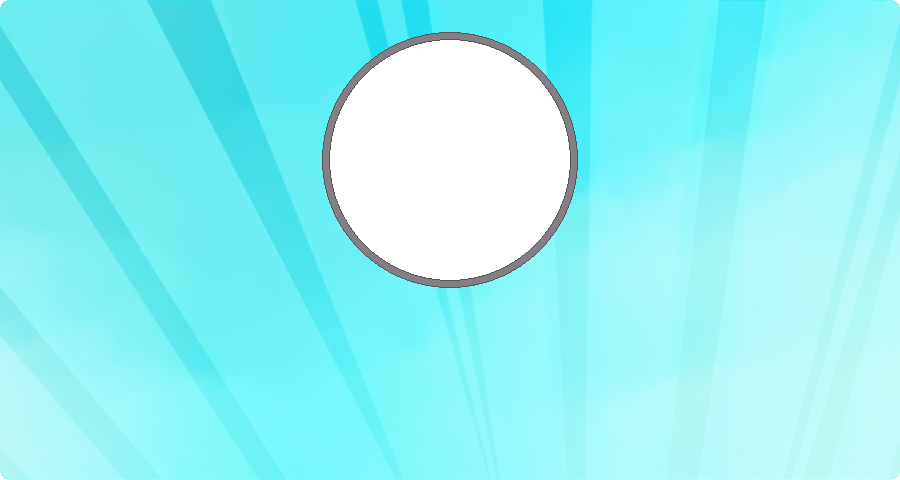
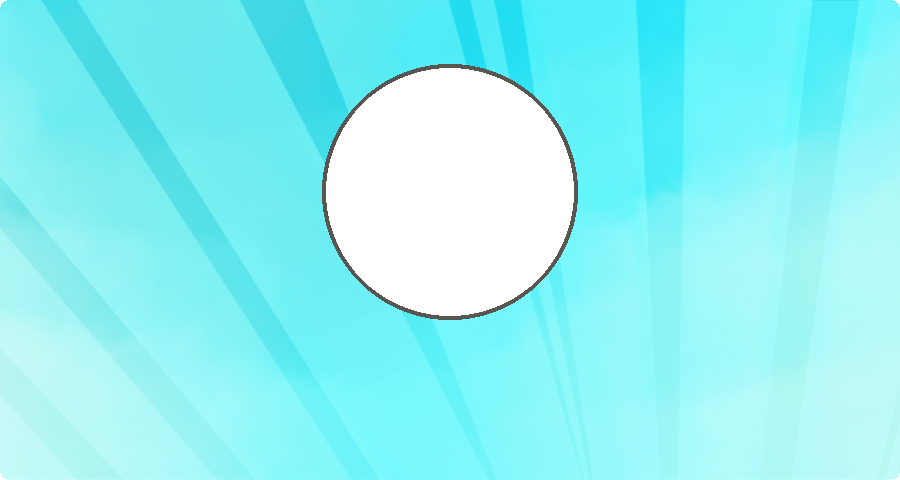
diverse anpassungen

diff --git a/src/main.rs b/src/main.rs
@@ -1,19 +1,19 @@
 use std::path::Path;
 
 use ab_glyph::{FontVec, PxScale};
-use image::Rgba;
+use image::{imageops::FilterType, Rgba};
 use img_gen::{error::Error, ImageBuilder, ImageGenerator};
 use log::{info, warn};
 use poise::serenity_prelude::{self as serenity, CreateAttachment, CreateMessage};
 use tempdir::TempDir;
-use tokio::{fs::File, io::AsyncWriteExt};
+use tokio::{fs::File, io::AsyncWriteExt, time::timeout};
 type PoiseError = Box<dyn std::error::Error + Send + Sync>;
 type Context<'a> = poise::Context<'a, Data, PoiseError>;
 
 pub static FIRA_SANS_BOLD: &str = "fsb";
 pub static FIRA_MONO_MEDIUM: &str = "fmm";
 pub static VERSION: &str = env!("CARGO_PKG_VERSION");
-static BACK_BANNER_PATH: &str = "assets/userbanner.png";
+static BACK_BANNER_PATH: &str = "assets/userbanner_back.png";
 static FRONT_BANNER_PATH: &str = "assets/userbanner.png";
 
 pub struct Data {
@@ -78,7 +78,7 @@ async fn event_handler(
 
         info!("Img url: {}", img_url);
 
-        if img_url.contains(".webp") || img_url.contains(".png") {
+        if img_url.contains(".png") {
             img_url = new_member.user.default_avatar_url();
         }
 
@@ -149,7 +149,7 @@ fn get_image_builder<T: AsRef<Path>>(
             400,
             small_scale,
             FIRA_MONO_MEDIUM,
-            Rgba([128, 128, 128, 255]),
+            Rgba([59, 59, 59, 255]),
             true,
         );
     image_builder
@@ -162,11 +162,23 @@ async fn download_avatar(
     let image_bytes = reqwest::get(img_url).await?.bytes().await?;
 
     let image_id = uuid::Uuid::new_v4();
-    let file_path = temp_dir.path().join(format!("{}.png", image_id));
 
+    let file_path = if img_url.to_lowercase().contains(".webp") {
+        temp_dir.path().join(format!("{}.webp", image_id))
+    } else {
+        temp_dir.path().join(format!("{}.png", image_id))
+    };
+    
     let mut tmp_file = File::create(&file_path).await?;
     tmp_file.write_all(&image_bytes).await?;
+    tmp_file.flush().await?;
 
+    drop(tmp_file);
+
+    let image = image::open(&file_path)?;
+    let image = image.resize(256, 256, FilterType::Nearest);
+    image.save(&file_path)?;
+    
     Ok(file_path)
 }
 

diff --git a/debugcode.md b/debugcode.md
@@ -1,13 +1,11 @@
 ```rs
-let img_generator = setup_image_generator()?;
-    let (x, y) = (322, 32);
+    let (x, y) = (322, 64);
     let big_scale = PxScale { x: 40., y: 40. };
     let small_scale = PxScale { x: 20., y: 20. };
-    let img_url = "https://cdn.discordapp.com/embed/avatars/3.png";
+    let img_url = "https://cdn.discordapp.com/avatars/333991818087628810/714e0a6590b4754d4d4fa2b744488bf7.webp?size=1024";
     let file_path = download_avatar(img_url, &tmp_dir).await.unwrap();
     let img_builder = get_image_builder(file_path, x, y, "sam", 20, big_scale, small_scale);
 
     let img = img_generator.generate(img_builder)?;
     img.save("output.png")?;
-
 ```
